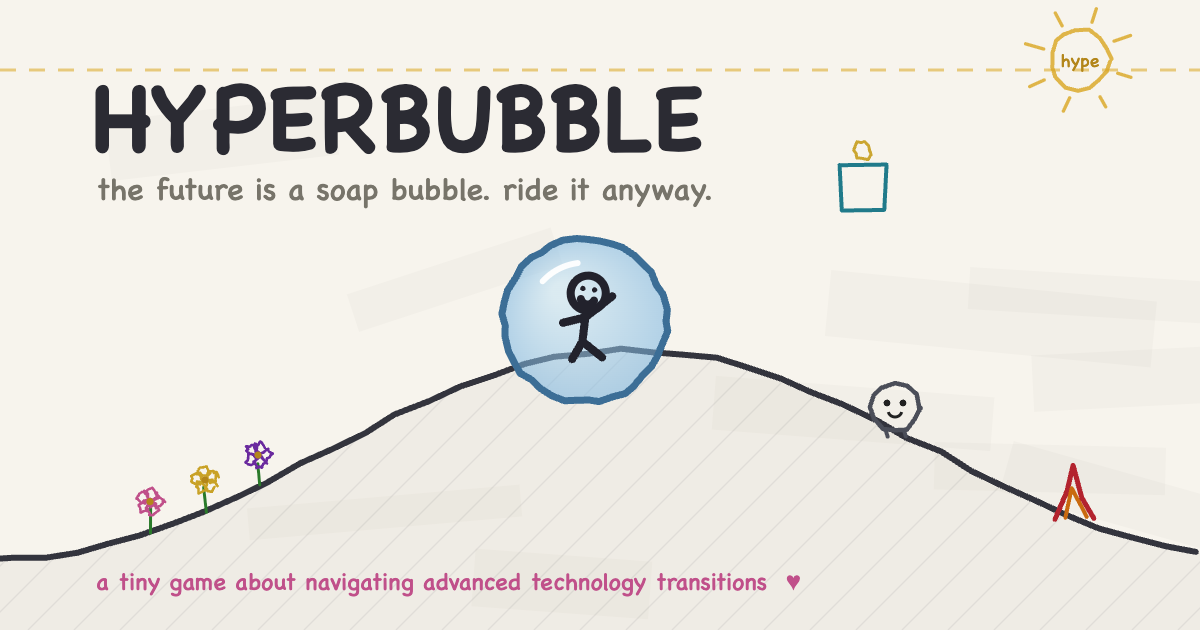
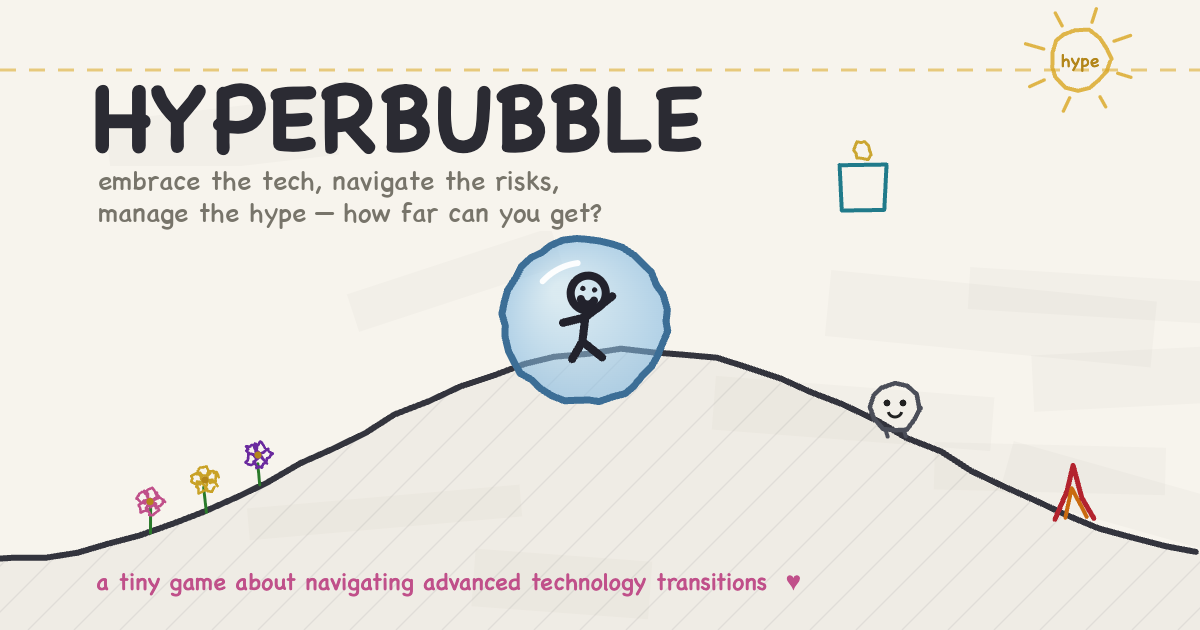
Add files via upload

Changed region(s): [[0.0617, 0.2714, 0.5858, 0.3619]]

diff --git a/hyperbubble-v4.html b/hyperbubble-v4.html
@@ -4,7 +4,7 @@
 <meta charset="utf-8">
 <meta name="viewport" content="width=device-width, initial-scale=1.0, maximum-scale=1.0, user-scalable=no, viewport-fit=cover">
 <meta name="apple-mobile-web-app-capable" content="yes">
-<title>HYPERBUBBLE — the future is a soap bubble. Ride it anyway.</title>
+<title>HYPERBUBBLE — embrace the tech, navigate the risks, manage the hype. How far can you get?</title>
 <link rel="icon" href="favicon.ico" sizes="32x32">
 <link rel="icon" type="image/svg+xml" href="favicon.svg">
 <link rel="icon" type="image/png" sizes="32x32" href="favicon-32x32.png">
@@ -16,12 +16,12 @@
      IMPORTANT: preview crawlers can only fetch images from a PUBLIC URL — they cannot read
      embedded data or local files. When you host this game, upload social-card.png next to
      this file and replace YOUR-DOMAIN-HERE below with your real domain. -->
-<meta property="og:title" content="HYPERBUBBLE — the future is a soap bubble. Ride it anyway.">
+<meta property="og:title" content="HYPERBUBBLE — embrace the tech, navigate the risks, manage the hype. How far can you get?">
 <meta property="og:description" content="A one-button game about navigating advanced technology transitions: hug orphan risks, starve moral panics, deploy tech for good, and keep human flourishing alive.">
 <meta property="og:type" content="website">
 <meta property="og:image" content="https://fvture.net/hyperbubble/social-card.png">
 <meta name="twitter:card" content="summary_large_image">
-<meta name="twitter:title" content="HYPERBUBBLE — the future is a soap bubble. Ride it anyway.">
+<meta name="twitter:title" content="HYPERBUBBLE — embrace the tech, navigate the risks, manage the hype. How far can you get?">
 <meta name="twitter:image" content="https://fvture.net/hyperbubble/social-card.png">
 <style>
   html,body{margin:0;padding:0;height:100%;overflow:hidden;background:#f6f3ec;-webkit-user-select:none;user-select:none;}
@@ -96,7 +96,7 @@
 <p>A towel waits at hill 42. A quantum duck stands near year 2120 — est. 2020, off by a century on purpose. A robot starts waving around 2057 and does not stop; you will see it again. Somewhere in the mid-2100s, reality resyncs — it is almost certainly nothing. Somewhere in the 2400s, a very large ship passes, very politely; fly up and say hello. At year 2742, against considerable odds: a whale, and some petunias. The century banners tell a long story about jetpacks — it ends in forgiveness. Tap the sun three times and the future gets friendlier: the sun smiles, and your records wear ☀, because honesty is mandatory. Leave the title screen alone for 22 seconds and someone waves at you. In the AI era, some of the background doodles are pencils, drawing the world. And there is always a coffee ring on the whiteboard. There has to be.</p>
 <p>This generation of the game also keeps a small pool of <em>wonders</em> — a bench, a cold pool, a man in a white suit, an elephant made of leaves, and a handful more. At most one appears per run, and most runs carry none, so meeting one means something. The weather has private moods too. And if you do nothing at all for twelve seconds, the game notices, kindly. That's all you're getting from me — some things are better found than told.</p>
 
-<div class="foot">Now close this and go play. The future is a soap bubble. Ride it anyway.</div>
+<div class="foot">Now close this and go play. Embrace the tech, navigate the risks, manage the hype — and see how far you get.</div>
 <a class="back" id="howtoClose2" style="display:inline-block;margin-top:18px">← back to the game</a>
 </div></div>
 <div id="about"><div class="page">
@@ -4228,7 +4228,7 @@ function drawTitle(){
   cx.fillStyle = 'rgba(247,244,237,0.62)';
   cx.fillRect(0, 0, W, H);
   mtext('HYPERBUBBLE', W/2, H*0.26, Math.min(72, W/8), '#2b2b33', 'center', 1, 400);
-  mtext('the future is a soap bubble. ride it anyway.', W/2, H*0.26 + 38, Math.min(21, W/26), '#77746a', 'center', 1, 401);
+  mtext('embrace the tech, navigate the risks, manage the hype — how far can you get?', W/2, H*0.26 + 38, Math.min(21, W/38), '#77746a', 'center', 1, 401);
   if (game.optimist) mtext('☀ techno-optimist mode', W/2, H*0.26 + 58, 13, '#b3861a', 'center', 0.85, 412);
 
   // idle bubble + figure
@@ -4284,7 +4284,7 @@ function drawTitle(){
   mtext('☁ gentle mode: ' + (game.gentle ? 'on' : 'off'), W/2 - 95, H*0.90, 12, game.gentle ? '#556b8a' : '#a9a69c', 'center', game.gentle ? 0.9 : 0.5, 413);
   mtext('✎ marginalia: ' + (game.marg ? 'on' : 'off'), W/2 + 95, H*0.90, 12, game.marg ? '#8a6d00' : '#a9a69c', 'center', game.marg ? 0.9 : 0.5, 414);
   mtext('drawn from the notebooks of a certain professor of the future', W/2, H - 14, Math.min(13, W/31), '#a9a69c', 'center', 0.75, 408);
-  mtext('v4 · build 68 ☀' + (game.test ? ' ⚑' : ''), W - 18, H - 14, 12, game.test ? '#b3232e' : '#c3beb4', 'right', 0.8, 410);
+  mtext('v4 · build 71 ☀' + (game.test ? ' ⚑' : ''), W - 18, H - 14, 12, game.test ? '#b3232e' : '#c3beb4', 'right', 0.8, 410);
   drawCorners();
   mline([[14,H-52],[112,H-52],[112,H-20],[14,H-20],[14,H-52]], '#8a877e', 2, 446, 0.7);
   mtext('how to play', 63, H-31, 13, '#77746a', 'center', 0.9, 447);

diff --git a/index.html b/index.html
@@ -4,7 +4,7 @@
 <meta charset="utf-8">
 <meta name="viewport" content="width=device-width, initial-scale=1.0, maximum-scale=1.0, user-scalable=no, viewport-fit=cover">
 <meta name="apple-mobile-web-app-capable" content="yes">
-<title>HYPERBUBBLE — the future is a soap bubble. Ride it anyway.</title>
+<title>HYPERBUBBLE — embrace the tech, navigate the risks, manage the hype. How far can you get?</title>
 <link rel="icon" href="favicon.ico" sizes="32x32">
 <link rel="icon" type="image/svg+xml" href="favicon.svg">
 <link rel="icon" type="image/png" sizes="32x32" href="favicon-32x32.png">
@@ -16,12 +16,12 @@
      IMPORTANT: preview crawlers can only fetch images from a PUBLIC URL — they cannot read
      embedded data or local files. When you host this game, upload social-card.png next to
      this file and replace YOUR-DOMAIN-HERE below with your real domain. -->
-<meta property="og:title" content="HYPERBUBBLE — the future is a soap bubble. Ride it anyway.">
+<meta property="og:title" content="HYPERBUBBLE — embrace the tech, navigate the risks, manage the hype. How far can you get?">
 <meta property="og:description" content="A one-button game about navigating advanced technology transitions: hug orphan risks, starve moral panics, deploy tech for good, and keep human flourishing alive.">
 <meta property="og:type" content="website">
 <meta property="og:image" content="https://fvture.net/hyperbubble/social-card.png">
 <meta name="twitter:card" content="summary_large_image">
-<meta name="twitter:title" content="HYPERBUBBLE — the future is a soap bubble. Ride it anyway.">
+<meta name="twitter:title" content="HYPERBUBBLE — embrace the tech, navigate the risks, manage the hype. How far can you get?">
 <meta name="twitter:image" content="https://fvture.net/hyperbubble/social-card.png">
 <style>
   html,body{margin:0;padding:0;height:100%;overflow:hidden;background:#f6f3ec;-webkit-user-select:none;user-select:none;}
@@ -96,7 +96,7 @@
 <p>A towel waits at hill 42. A quantum duck stands near year 2120 — est. 2020, off by a century on purpose. A robot starts waving around 2057 and does not stop; you will see it again. Somewhere in the mid-2100s, reality resyncs — it is almost certainly nothing. Somewhere in the 2400s, a very large ship passes, very politely; fly up and say hello. At year 2742, against considerable odds: a whale, and some petunias. The century banners tell a long story about jetpacks — it ends in forgiveness. Tap the sun three times and the future gets friendlier: the sun smiles, and your records wear ☀, because honesty is mandatory. Leave the title screen alone for 22 seconds and someone waves at you. In the AI era, some of the background doodles are pencils, drawing the world. And there is always a coffee ring on the whiteboard. There has to be.</p>
 <p>This generation of the game also keeps a small pool of <em>wonders</em> — a bench, a cold pool, a man in a white suit, an elephant made of leaves, and a handful more. At most one appears per run, and most runs carry none, so meeting one means something. The weather has private moods too. And if you do nothing at all for twelve seconds, the game notices, kindly. That's all you're getting from me — some things are better found than told.</p>
 
-<div class="foot">Now close this and go play. The future is a soap bubble. Ride it anyway.</div>
+<div class="foot">Now close this and go play. Embrace the tech, navigate the risks, manage the hype — and see how far you get.</div>
 <a class="back" id="howtoClose2" style="display:inline-block;margin-top:18px">← back to the game</a>
 </div></div>
 <div id="about"><div class="page">
@@ -4228,7 +4228,7 @@ function drawTitle(){
   cx.fillStyle = 'rgba(247,244,237,0.62)';
   cx.fillRect(0, 0, W, H);
   mtext('HYPERBUBBLE', W/2, H*0.26, Math.min(72, W/8), '#2b2b33', 'center', 1, 400);
-  mtext('the future is a soap bubble. ride it anyway.', W/2, H*0.26 + 38, Math.min(21, W/26), '#77746a', 'center', 1, 401);
+  mtext('embrace the tech, navigate the risks, manage the hype — how far can you get?', W/2, H*0.26 + 38, Math.min(21, W/38), '#77746a', 'center', 1, 401);
   if (game.optimist) mtext('☀ techno-optimist mode', W/2, H*0.26 + 58, 13, '#b3861a', 'center', 0.85, 412);
 
   // idle bubble + figure
@@ -4284,7 +4284,7 @@ function drawTitle(){
   mtext('☁ gentle mode: ' + (game.gentle ? 'on' : 'off'), W/2 - 95, H*0.90, 12, game.gentle ? '#556b8a' : '#a9a69c', 'center', game.gentle ? 0.9 : 0.5, 413);
   mtext('✎ marginalia: ' + (game.marg ? 'on' : 'off'), W/2 + 95, H*0.90, 12, game.marg ? '#8a6d00' : '#a9a69c', 'center', game.marg ? 0.9 : 0.5, 414);
   mtext('drawn from the notebooks of a certain professor of the future', W/2, H - 14, Math.min(13, W/31), '#a9a69c', 'center', 0.75, 408);
-  mtext('v4 · build 68 ☀' + (game.test ? ' ⚑' : ''), W - 18, H - 14, 12, game.test ? '#b3232e' : '#c3beb4', 'right', 0.8, 410);
+  mtext('v4 · build 71 ☀' + (game.test ? ' ⚑' : ''), W - 18, H - 14, 12, game.test ? '#b3232e' : '#c3beb4', 'right', 0.8, 410);
   drawCorners();
   mline([[14,H-52],[112,H-52],[112,H-20],[14,H-20],[14,H-52]], '#8a877e', 2, 446, 0.7);
   mtext('how to play', 63, H-31, 13, '#77746a', 'center', 0.9, 447);
